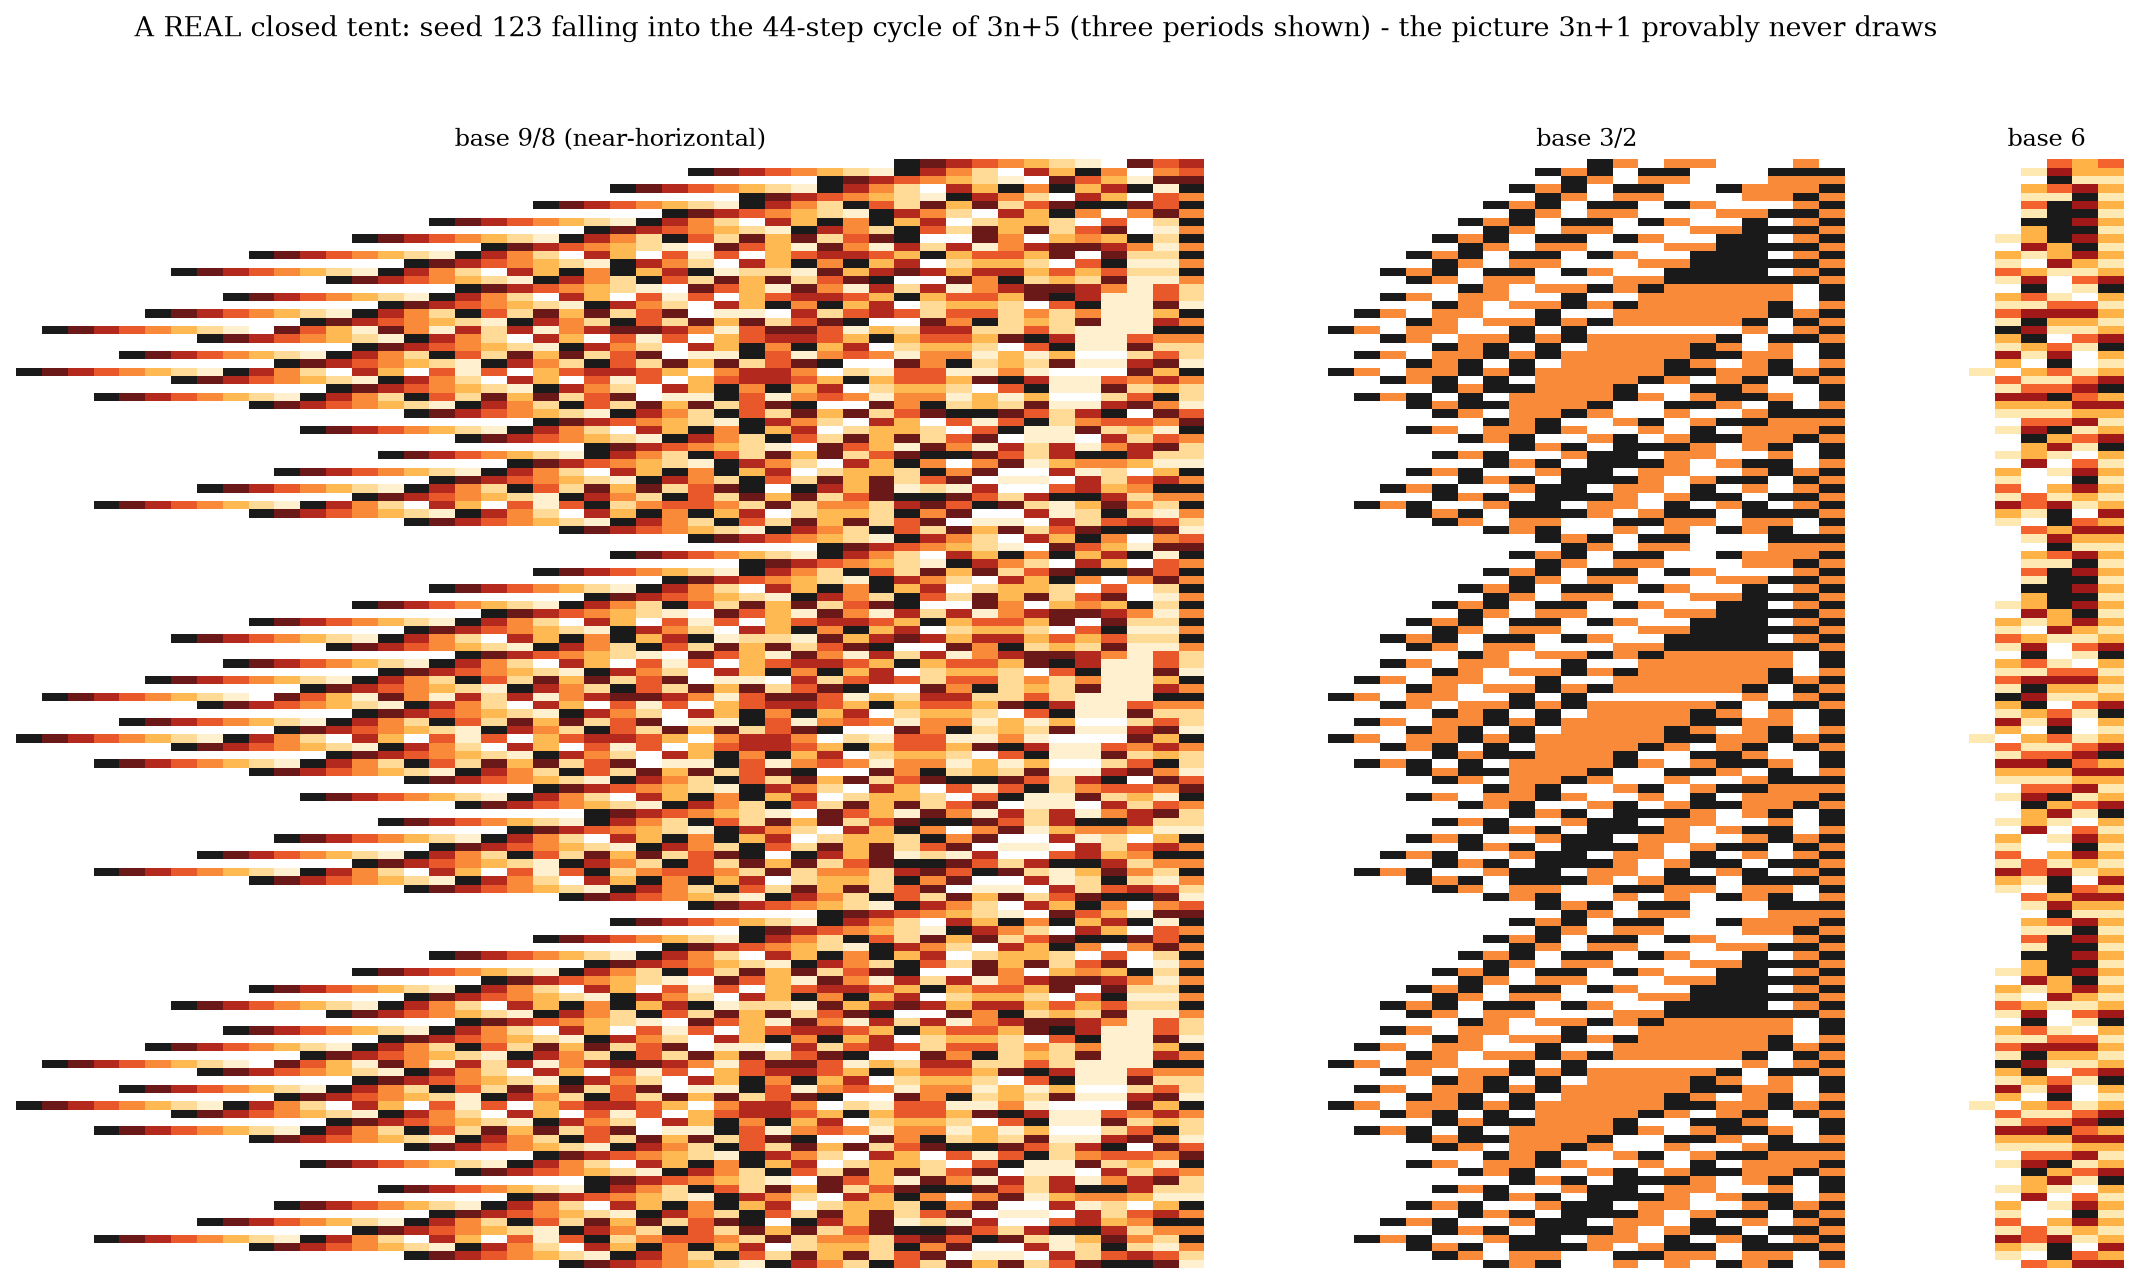
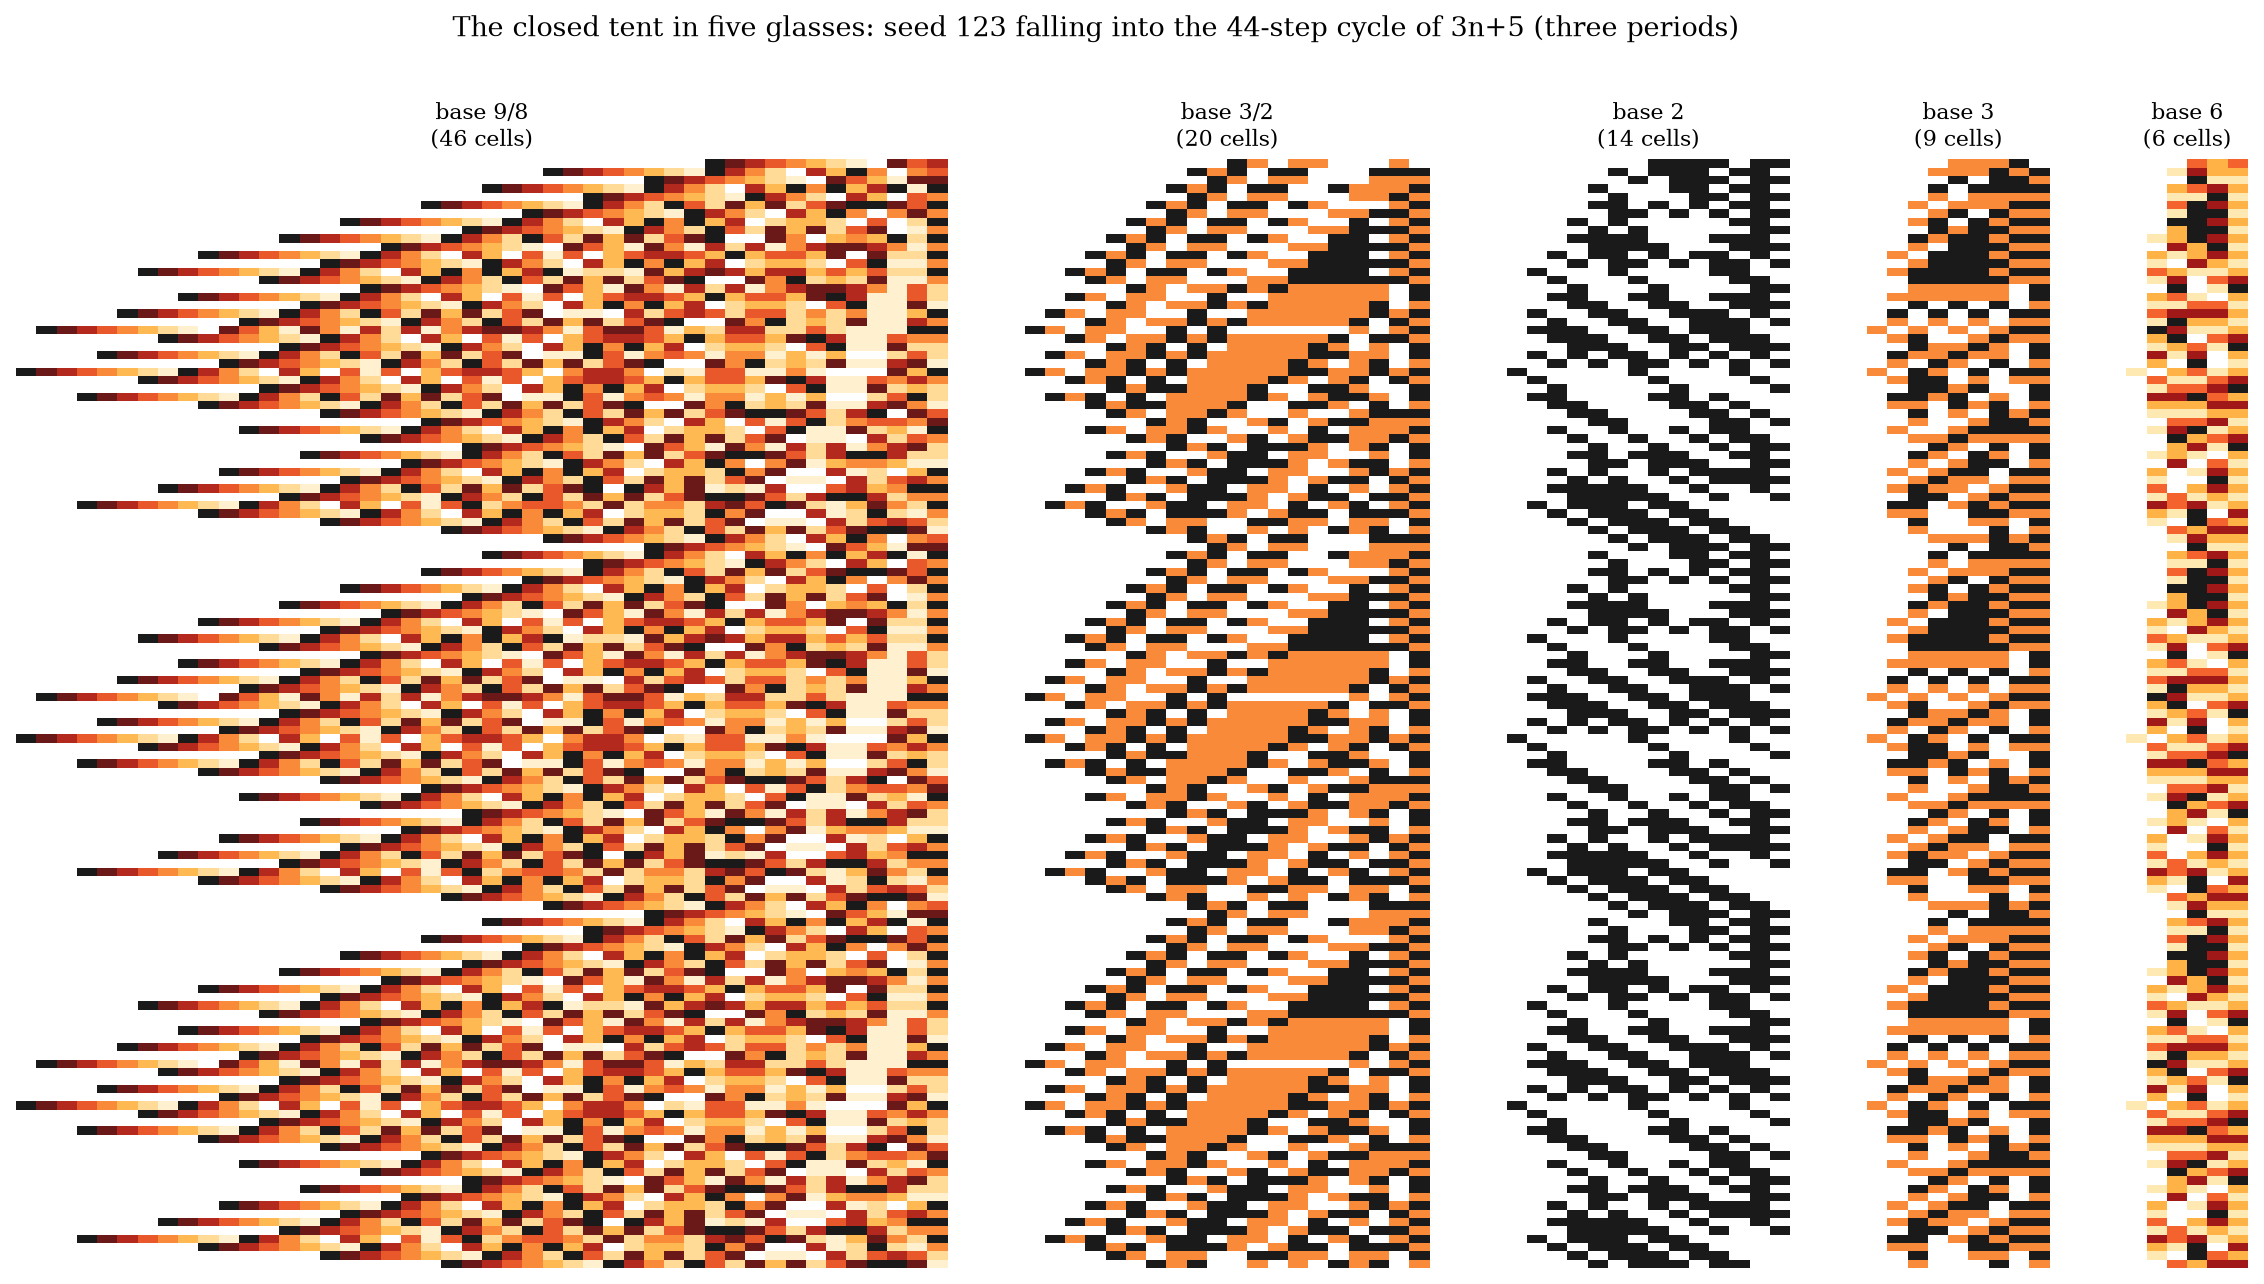
Closed tent v2: the 3n+5 44-cycle in five glasses (9/8, 3/2, 2, 3, 6)

diff --git a/research/NOTE.md b/research/NOTE.md
@@ -2769,3 +2769,15 @@ returns = AN EXACT CYCLE. Martien's geometric question is the cycle
 question: the comma-bases make near-closure as flat as desired, and
 the gap-1 theorem + reach law are precisely the statement that the
 curve never closes. The machine grazes horizontal forever.
+
+## Observation 141 (THE CLOSED TENT: a real long cycle in the glasses).
+## R3366-3376
+The 3n+5 44-cycle (entry seed 123 -> min 187), rendered in bases 9/8,
+3/2, 2, 3, 6 (viz/closed_tent.png): after a short chaotic entry the
+picture becomes EXACTLY PERIODIC in every base - the closed ribbon that
+3n+1 provably never draws (Obs 140). In base 9/8 the cycle is a
+near-horizontal closed zigzag (the tent that DOES bend back, because
+the value truly returns); in base 2/3/6 it is a repeating block motif.
+The boosted map's cycle makes the geometric contrast visible: closure
+is a property of the VALUE returning, and only the numerator-boosted
+maps (Thm 125) can pay for it.